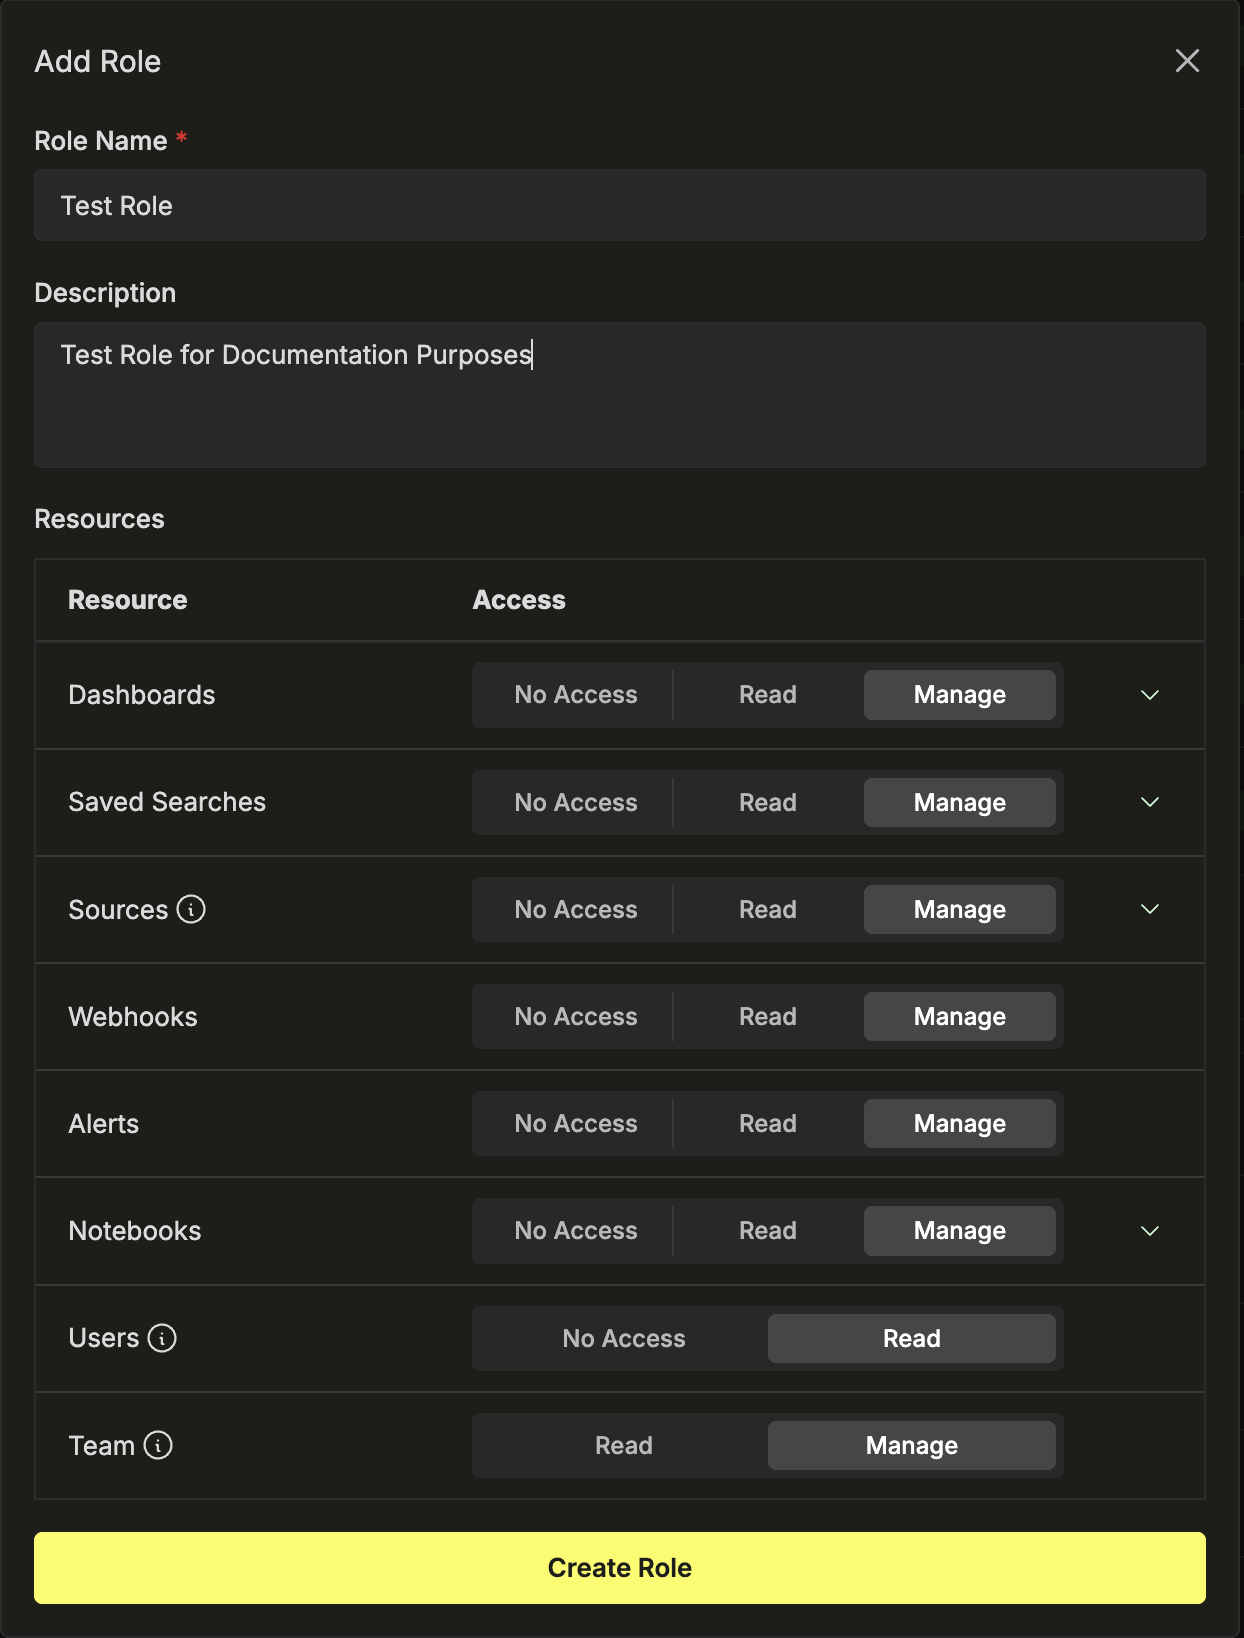
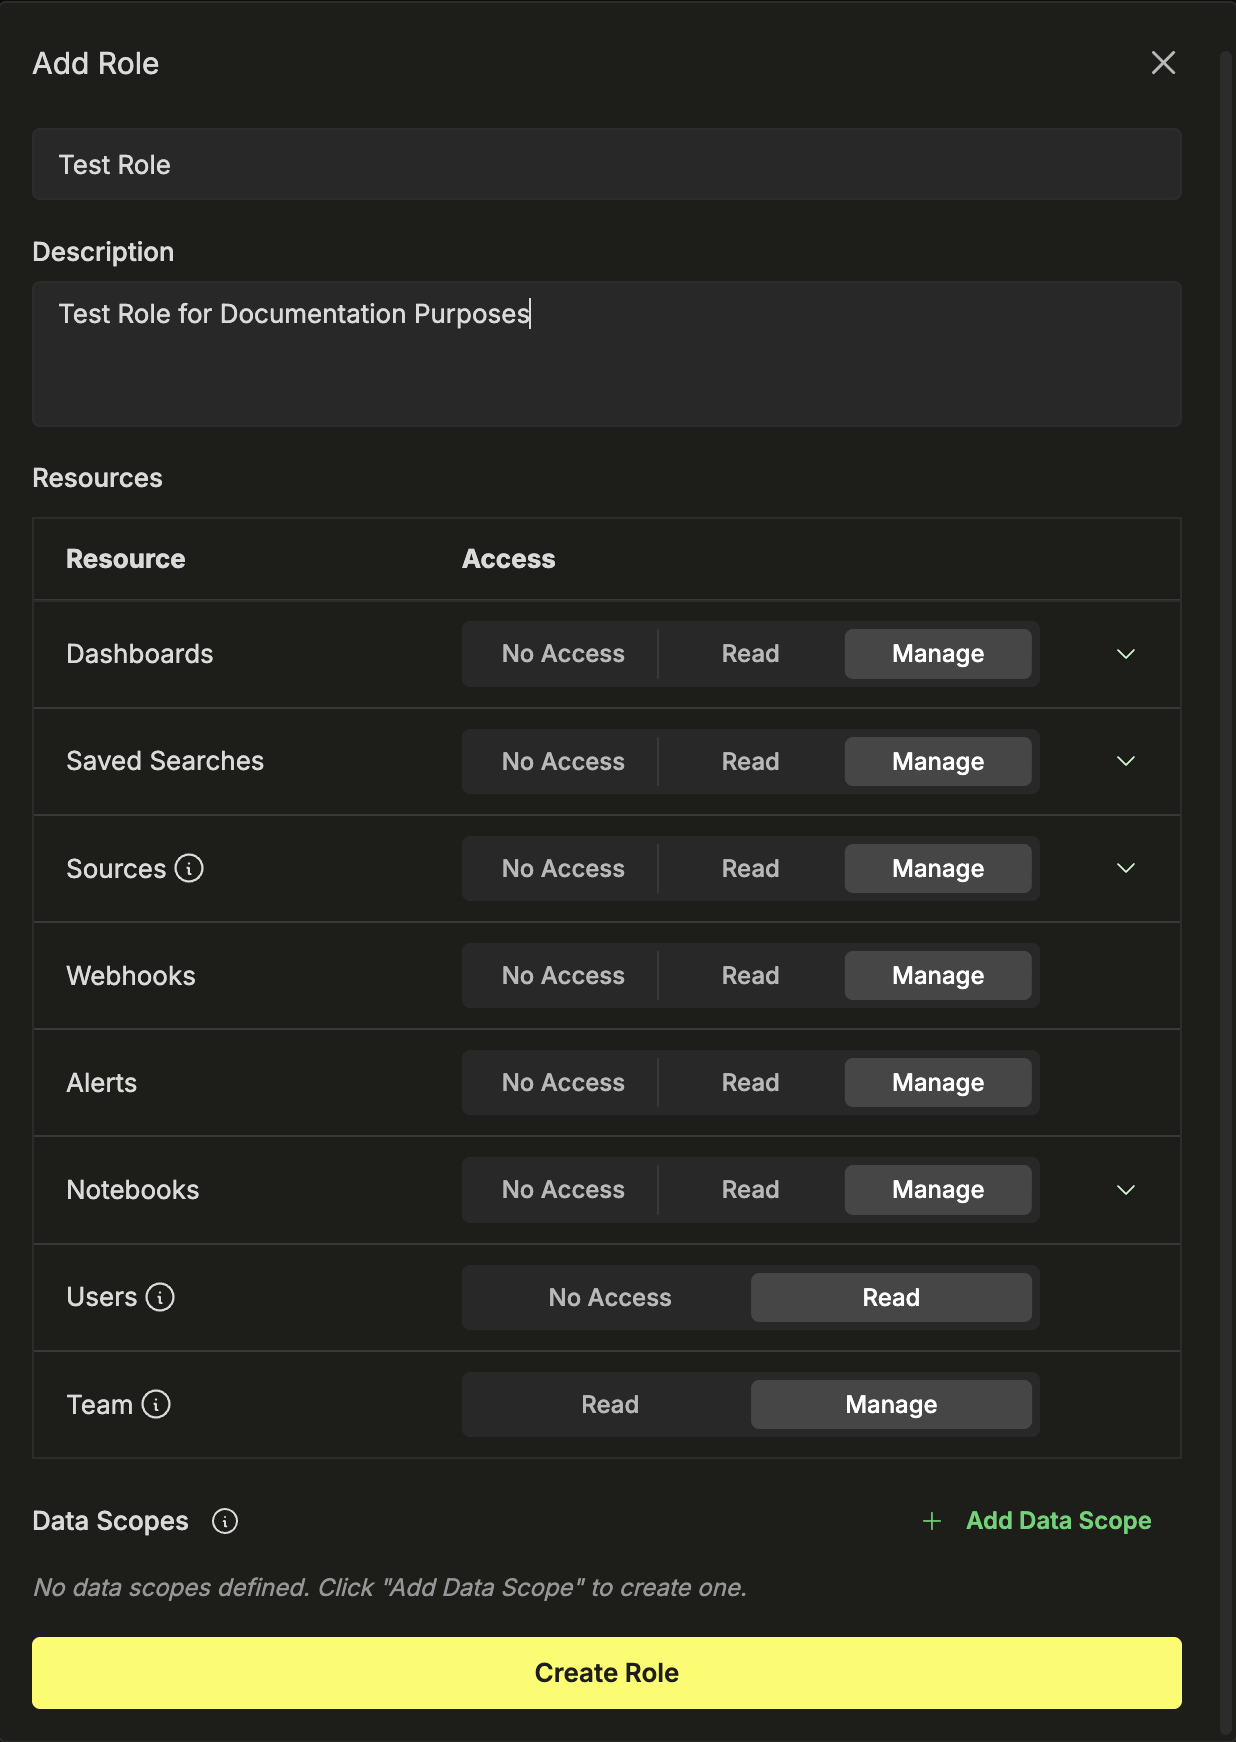
rough draft

diff --git a/docs/use-cases/observability/clickstack/managing/rbac.md b/docs/use-cases/observability/clickstack/managing/rbac.md
@@ -15,6 +15,9 @@ import rbac_section from '@site/static/images/clickstack/rbac/rbac-section.png';
 import add_role_modal from '@site/static/images/clickstack/rbac/add-role-modal.png';
 import fine_grained from '@site/static/images/clickstack/rbac/fine-grained.png';
 import security_policies from '@site/static/images/clickstack/rbac/security-policies.png';
+import data_scopes from '@site/static/images/clickstack/rbac/data-scopes.png';
+import team_members from '@site/static/images/clickstack/rbac/team-members.png';
+import edit_team_member from '@site/static/images/clickstack/rbac/edit-team-member.png';
 
 ClickStack includes role-based access control (RBAC) so you can define custom roles with fine-grained permissions over dashboards, saved searches, sources, alerts, webhooks, and notebooks. You assign each team member a role that determines what they can view and manage in the ClickStack UI.
 
@@ -24,10 +27,11 @@ RBAC is available in Managed ClickStack deployments. For ClickStack Open Source,
 
 ## Overview {#overview}
 
-ClickStack RBAC operates at two levels:
+ClickStack RBAC operates at three levels:
 
 - **Resource-level permissions** — control whether a role can access specific resource types, and at what level (no access, read, or manage).
 - **Fine-grained access rules** — optionally restrict access to individual resources within a category based on conditions like name or tag.
+- **Data scopes** — apply row-level filtering to ClickHouse queries using SQL conditions.
 
 ClickStack ships with three built-in system roles, and you can create custom roles to match your team's access requirements.
 
@@ -57,7 +61,7 @@ Click **+ Add Role**. Enter a **Role Name** (for example, `Developer` or `On-Cal
 
 ### Configure permissions and save {#step-configure}
 
-Set resource permissions for the role (see [Resource permissions](#resource-permissions) below), then click **Create Role**.
+Set permissions for the role, then click **Create Role**.
 
 <Image img={add_role_modal} alt="Add Role modal" size="md"/>
 
@@ -65,35 +69,12 @@ Set resource permissions for the role (see [Resource permissions](#resource-perm
 
 Custom roles appear alongside system roles in the RBAC Roles section, with **Edit** and **Delete** controls.
 
-## Resource permissions {#resource-permissions}
-
-Each role defines an access level for the following resource types:
-
-| Resource | Access levels | Fine-grained controls |
-|----------|--------------|----------------------|
-| **Dashboards** | No Access · Read · Manage | Yes |
-| **Saved Searches** | No Access · Read · Manage | Yes |
-| **Sources** | No Access · Read · Manage | Yes |
-| **Webhooks** | No Access · Read · Manage | No |
-| **Alerts** | No Access · Read · Manage | No |
-| **Notebooks** | No Access · Read · Manage | Yes |
-
-The access levels are:
-
-| Access level | Description |
-|-------------|-------------|
-| **No Access** | The role can't view or interact with resources of this type. |
-| **Read** | The role can view resources but can't create, edit, or delete them. |
-| **Manage** | The role has full control: view, create, edit, and delete. |
-
-### Administrative permissions {#administrative-permissions}
+## Administrative permissions {#administrative-permissions}
 
 In addition to resource permissions, each role includes two administrative settings:
 
-| Setting | Access levels | Description |
-|---------|--------------|-------------|
-| **Users** | No Access · Read | Controls whether the role can view team member information. |
-| **Team** | Read · Manage | Controls whether the role can view or manage team-level settings. |
+- **Users** (No Access · Limited Access) — controls whether the role can view team members and their roles. Only Admins can invite, remove, or update users.
+- **Team** (Read · Manage) — controls whether the role can view or manage team-level settings. A role must have at minimum read access to a team to access it.
 
 ## Fine-grained access rules {#fine-grained-access-rules}
 
@@ -104,25 +85,36 @@ To configure fine-grained rules, click the chevron to expand a resource, then sw
 Each access rule consists of a **condition** and an **access level**. Conditions filter resources by properties such as name or tag:
 
 | Condition field | Operators | Example |
-|----------------|-----------|---------|
+|----------------|-------------------|---------|
 | **Name** | `is`, `contains` | Name contains `production` |
-| **Tag** | `is` | Tag is `critical` |
+| **ID** | `is`, `contains` | ID is `abc123` |
+| **Tag** | `is`, `contains` | Tag is `critical` |
 
 You can add multiple rules per resource. Rules combine with OR logic — a resource is accessible if it matches any rule. Resources that don't match any rule are denied access by default.
 
-This simple example sets access rules such that this role can read dashboards with "test" in the name.
+In this example, the role can only read dashboards with "test" in the name.
 
 <Image img={fine_grained} alt="Fine-grained access rules" size="md"/>
 
+## Data scopes {#data-scopes}
+
+Data scopes apply row-level filtering to ClickHouse queries, restricting which rows are returned from the database. Each scope targets a specific database and table, and applies a ClickHouse `WHERE` condition that's automatically added when a user with that role runs a query.
+
+To add a data scope, click **+ Add Data Scope** in the role configuration, select a **Database** and **Table**, then enter a **Condition** — for example, `service_name = 'my-service'`.
+
+<Image img={data_scopes} alt="Data scopes" size="md"/>
+
 ## Assigning roles to team members {#assigning-roles}
+
+<Image img={team_members} alt="Team members with role assignments" size="lg"/>
 
 The **Team Settings** page lists all team members with their current role. To change a user's role, click **Edit** next to their name and select a new role. Each user has exactly one role.
 
-{/* <Image img={team_members} alt="Team members with role assignments" size="lg"/> */}
+<Image img={edit_team_member} alt="Edit team member" size="md"/>
 
 ### Default new user role {#default-new-user-role}
 
-You can configure a **Default New User Role** under **Security Policies**. New users who auto-join the team are automatically assigned this role.
+You can set a default role for new users under [Security policies](#security-policies). New users who auto-join the team are automatically assigned this role.
 
 :::warning
 When a new member joins the team, their SQL console permissions in ClickHouse Cloud are reassigned to match the ClickStack role.
@@ -130,9 +122,10 @@ When a new member joins the team, their SQL console permissions in ClickHouse Cl
 
 ## Security policies {#security-policies}
 
-The **Security Policies** section in **Team Settings** provides additional controls:
+The **Security Policies** section in **Team Settings** provides additional controls.
 
-- **Default New User Role** — Set the role automatically assigned to new users who join the team.
-- **Generative AI** — Enable or disable LLM-powered features (such as natural language query generation using Anthropic or Amazon Bedrock). When disabled, no data is sent to AI providers.
+**Default New User Role** sets the role automatically assigned to new users who join the team.
+
+**Generative AI** lets you enable or disable LLM-powered features like natural language query generation using Anthropic or Amazon Bedrock. When disabled, no data is sent to AI providers.
 
 <Image img={security_policies} alt="Security policies" size="lg"/>
